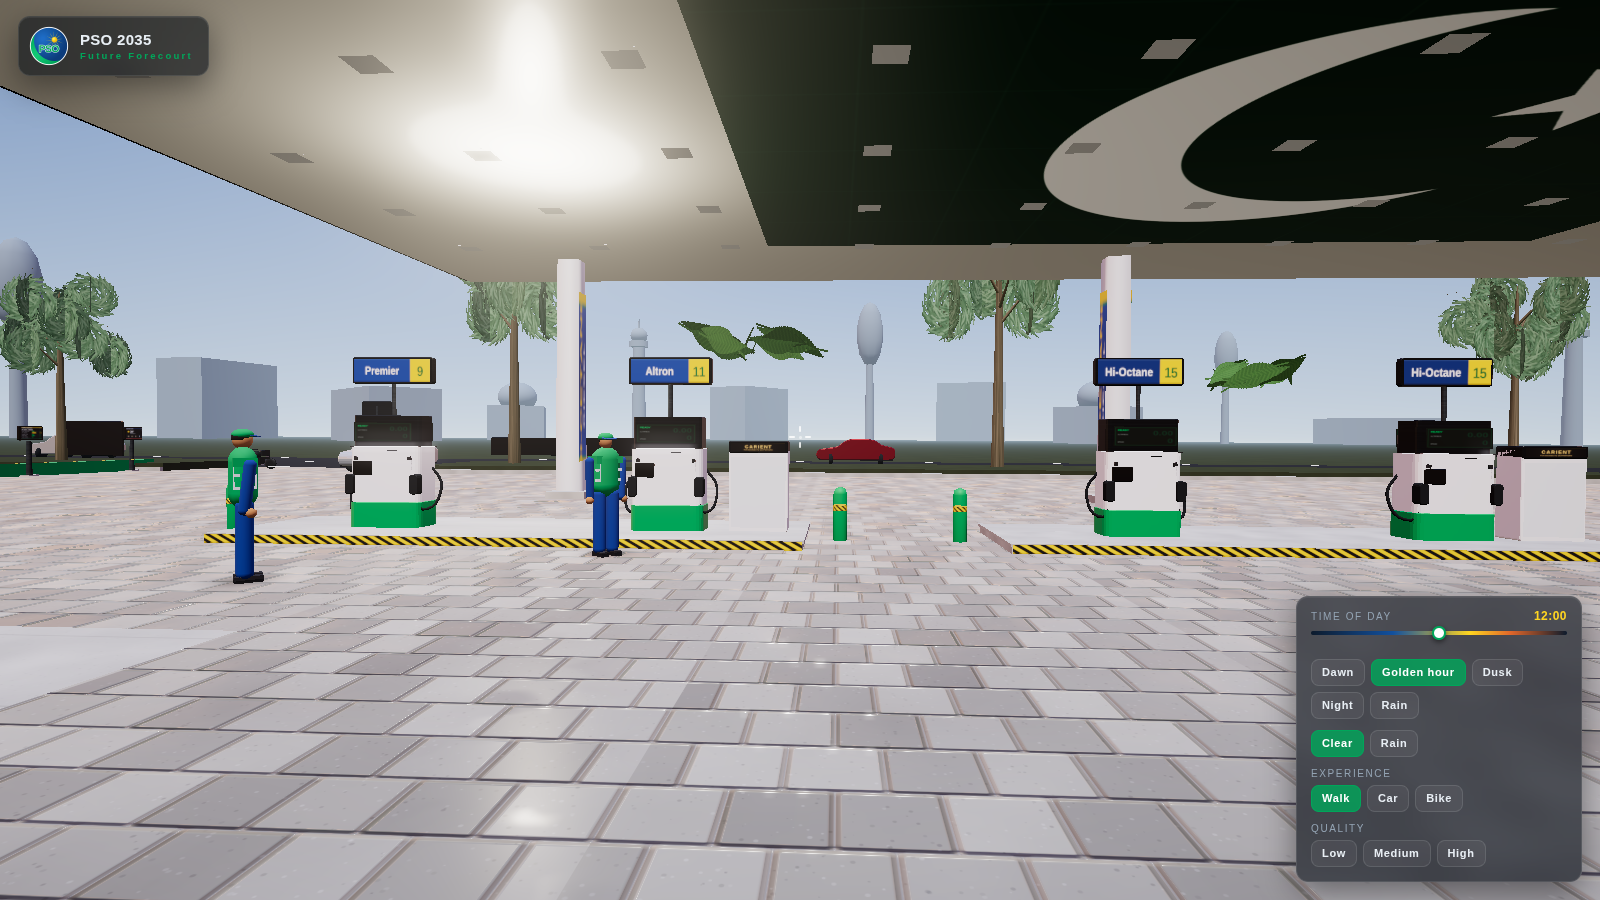
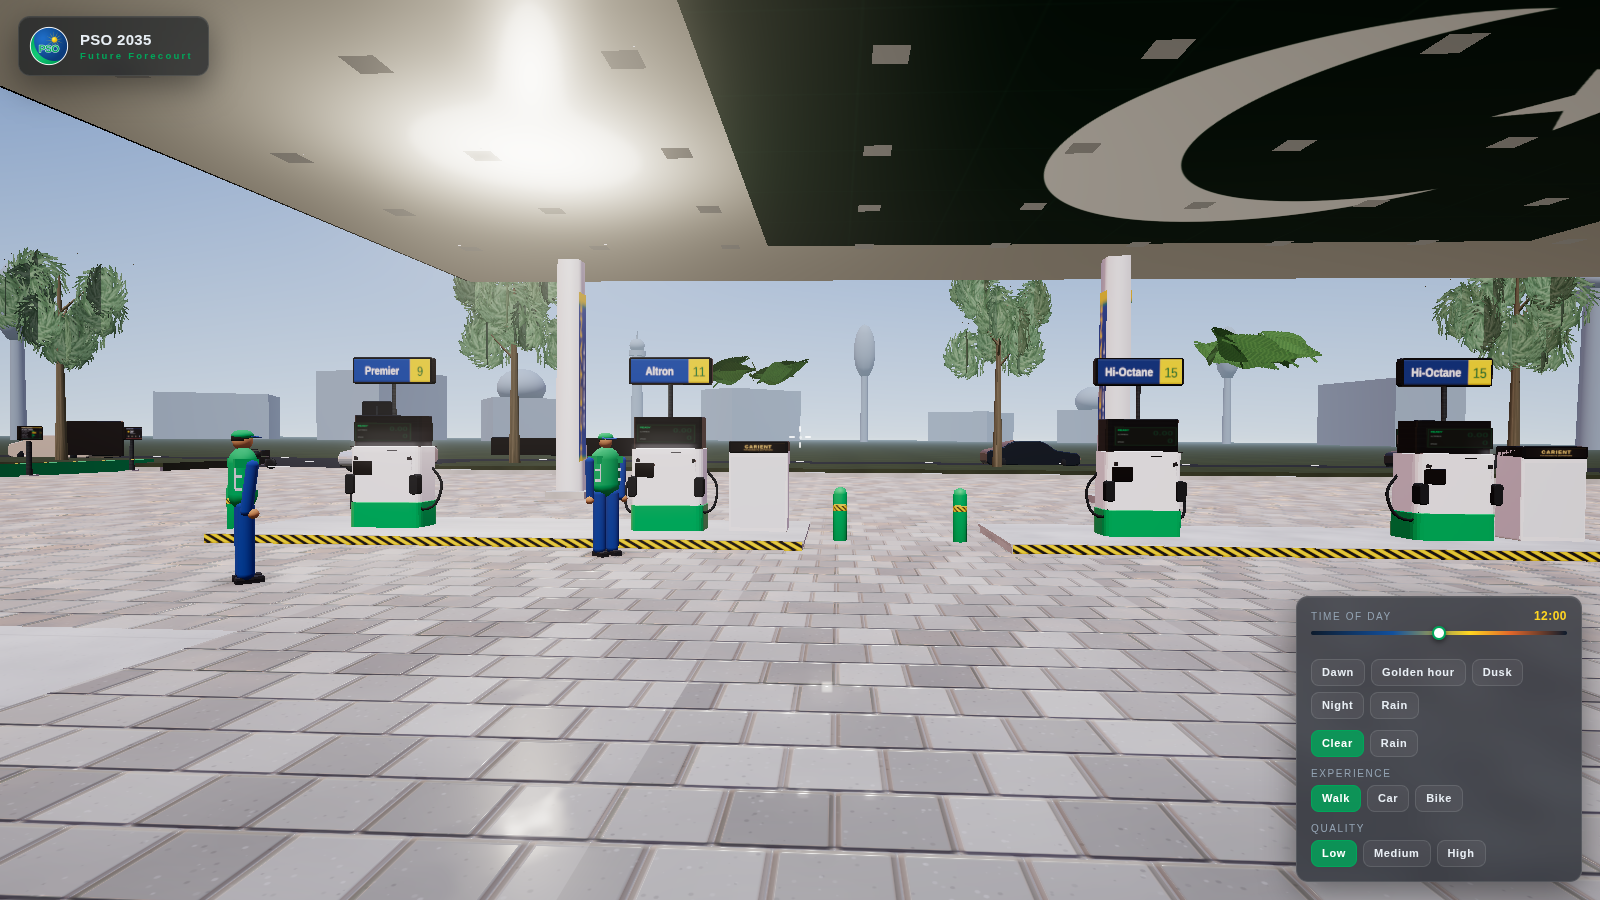
Fix control panel misreporting state; add Gate U
Two faults of the same shape, both visible in the project's own
screenshots before anyone noticed them: state applied before, or apart
from, the UI that displays it.

The time-preset row was lit by whichever button was last pressed. It was
seeded to 'Golden hour' at build time and only updated inside a preset
button's own click handler, so dragging the slider to 22:30 left the
panel insisting it was golden hour — as did the T key, the touch TIME
button and any programmatic setTime. The highlight is now derived in
setTime(), the single point every one of those routes passes through. A
preset matches on both its minute and its rain flag, against rainTarget
rather than rain so the highlight lands when rain is asked for rather
than after it finishes fading in. A time matching no preset now lights
nothing, which the old code could not express.

No quality tier was lit at boot. applyTier() does sync #qrow, but boot
calls it before buildControls() creates the buttons, so its
querySelectorAll matched nothing and all three tiers looked inactive
until clicked or until the auto-tiering probe fired. Seeded from TIERNAME
the way the mode row already seeded from MODE.cur.

Gate U asserts the panel against the world rather than against itself: it
drives the clock and reads back which buttons carry .on. A check that
merely clicked a button and confirmed it lit would pass on both bugs.

24/24 headless checks pass.

Claude-Session: https://claude.ai/code/session_01FkiihUr7tbuE9jnjfCvhtL

diff --git a/games/PSOFutureForecourt.html b/games/PSOFutureForecourt.html
@@ -64340,7 +64340,25 @@ function setTime(minutes) {
   if (el) el.textContent = String(Math.floor(h)).padStart(2, '0') + ':' + String(SKY.min % 60).padStart(2, '0');
   const sl = document.getElementById('tslide');
   if (sl && Math.abs(+sl.value - SKY.min) > 2) sl.value = SKY.min;
+  syncPresets();
   SCRSTATE.dirty = true;
+}
+
+/* The preset row used to be lit by whichever button was last clicked, and was
+   seeded to 'Golden hour' at build time. Nothing cleared it, so dragging the
+   slider to 22:30 left the panel insisting it was golden hour — the control
+   was reporting the last thing you pressed rather than the state of the world.
+   Driving it from setTime() instead covers every route in: the slider, the
+   preset buttons, the T key, the touch TIME button and window.PSO2035.setTime.
+   Matching against rainTarget rather than rain means the highlight lands as
+   soon as you ask for rain, not after it has finished fading in. */
+function syncPresets() {
+  const pr = document.getElementById('presets');
+  if (!pr || !pr.children.length) return;
+  [...pr.children].forEach((b) => {
+    const P = PRESETS[b.textContent];
+    b.classList.toggle('on', !!P && P[0] === SKY.min && P[1] === SKY.rainTarget);
+  });
 }
 
 /* ── environment map: regenerated only when the sky has actually moved ───────*/
@@ -64405,6 +64423,7 @@ function setRain(on) {
   SKY.rainTarget = on ? 1 : 0;
   if (on) { toast('<b>Rain</b> — wet forecourt, ripples in the puddles'); }
   document.querySelectorAll('#wxrow .btn').forEach(b => b.classList.toggle('on', b.dataset.wx === (on ? '1' : '0')));
+  syncPresets();   // rain is half of what identifies a preset
 }
 let THUNDER_T = 6;
 function updateWeather(dt) {
@@ -66031,10 +66050,8 @@ function buildControls() {
       const [m, r] = PRESETS[k];
       SKY.rainTarget = r; SKY.rain = r; setTime(m); updateEnv(true);
       setRain(!!r);
-      [...pr.children].forEach(c => c.classList.toggle('on', c === b));
       toast('<b>' + k + '</b>');
     };
-    if (k === 'Golden hour') b.classList.add('on');
     pr.appendChild(b);
   });
   const wx = $('wxrow');
@@ -66057,6 +66074,11 @@ function buildControls() {
   ['low', 'medium', 'high'].forEach(t => {
     const b = document.createElement('div'); b.className = 'btn'; b.textContent = TIER[t].name;
     b.dataset.tier = t;
+    /* applyTier() syncs this row, but boot calls it before these buttons exist,
+       so its querySelectorAll matches nothing and the panel opens with no tier
+       lit at all. Seed from TIERNAME here, the way the mode row seeds from
+       MODE.cur. */
+    if (t === TIERNAME) b.classList.add('on');
     b.onclick = () => { applyTier(t, true); };
     q.appendChild(b);
   });

diff --git a/docs/PSO_FORECOURT.md b/docs/PSO_FORECOURT.md
@@ -128,6 +128,29 @@ ordering-kiosk cluster to the shopfront at `(2, -6.4)`, leaving kiosk A **0.82 m
 clearance is now 6.64 m, and `tools/pso-smoke.mjs` raycasts a fan from every viewpoint and fails
 any under 1.2 m, because objects move between builds and viewpoints do not follow them.
 
+### The control panel misreported the state of the world
+
+Two faults of the same shape — state applied before, or apart from, the UI that displays it. Both
+were visible in the project's own screenshots before anyone noticed them.
+
+**The preset row was lit by whichever button you last pressed.** It was seeded to `Golden hour` at
+build time and only ever updated inside a preset button's own click handler. Nothing cleared it, so
+dragging the time slider to 22:30 left the panel insisting it was golden hour, and the `T` key, the
+touch `TIME` button and `window.PSO2035.setTime` all moved the world without moving the control.
+
+The highlight is now derived in `setTime()`, which is the single point every one of those routes
+passes through. A preset matches on both its minute and its rain flag, and matching against
+`rainTarget` rather than `rain` means the highlight lands when you *ask* for rain rather than after
+it has finished fading in. A time that matches no preset now correctly lights nothing, which the
+old code could not express at all.
+
+**No quality tier was lit at boot.** `applyTier()` does sync `#qrow`, but boot calls it at step
+7091 and builds the controls at step 7094 — so its `querySelectorAll` matched nothing and the panel
+opened with all three tiers looking inactive until you clicked one or the auto-tiering probe fired.
+Seeded from `TIERNAME` at build time, the way the mode row already seeded from `MODE.cur`.
+
+Guarded by Gate U, which asserts the panel against the world rather than against itself.
+
 ### Offline integrity
 
 The build reached jsDelivr through an import map. It could not open from `file://`, could not run
@@ -161,6 +184,9 @@ C4  LEDs respond to time of day           night/day ratio 10.0
 C5  LED animation is actually running
 C6  strips go dark in daylight            day lum=[0, 0, 0, 0, 0]
 E1  no viewpoint spawns inside geometry   6.64m, 3.31m, 2.3m, 7.1m, 6.64m
+U1  preset row follows the clock          at 22:30 lit=[Night]
+U3  nothing lit at a time matching none   at 03:17 lit=[]
+U4  exactly one quality tier lit at boot
 F1  no per-tick AudioParam steps in the mixer
 ```
 

diff --git a/prompts/pso-forecourt-loop.md b/prompts/pso-forecourt-loop.md
@@ -151,6 +151,28 @@ This generalises. Whenever a fix relocates a fixture, everything positioned *rel
 used to be* — viewpoints, spawn points, colliders, camera rails, audio emitters — is now wrong and
 nothing will tell you.
 
+### 1.7 Controls that report themselves instead of the world
+
+The same shape twice, and both were visible in the project's own screenshots long before anyone
+named them — which is the point: a control that lies is invisible to the person who wrote it,
+because they only ever exercise it the one way that works.
+
+**Lit by the last click.** The time-preset row was seeded to `Golden hour` at build time and only
+updated inside a preset button's own click handler. Dragging the slider to 22:30 left the panel
+insisting it was golden hour; so did the `T` key, the touch `TIME` button, and any programmatic
+`setTime`. The highlight must be **derived in the one function every route passes through**, never
+set by the handler that happens to be convenient. A state that matches no preset must be
+expressible — the old code could not say "none of these".
+
+**Synced before it existed.** `applyTier()` correctly syncs the quality row, but boot calls it
+*before* the controls are built, so its `querySelectorAll` matched nothing and the panel opened
+with no tier lit. Any UI sync that runs during boot must be either seeded at build time or ordered
+after the DOM it targets.
+
+**Assert the panel against the world, not against itself.** Gate U drives time and reads back which
+buttons carry `.on`. A check that only clicks a button and confirms it lit up would pass on both
+of these bugs.
+
 ---
 
 ## 2. The visual target
